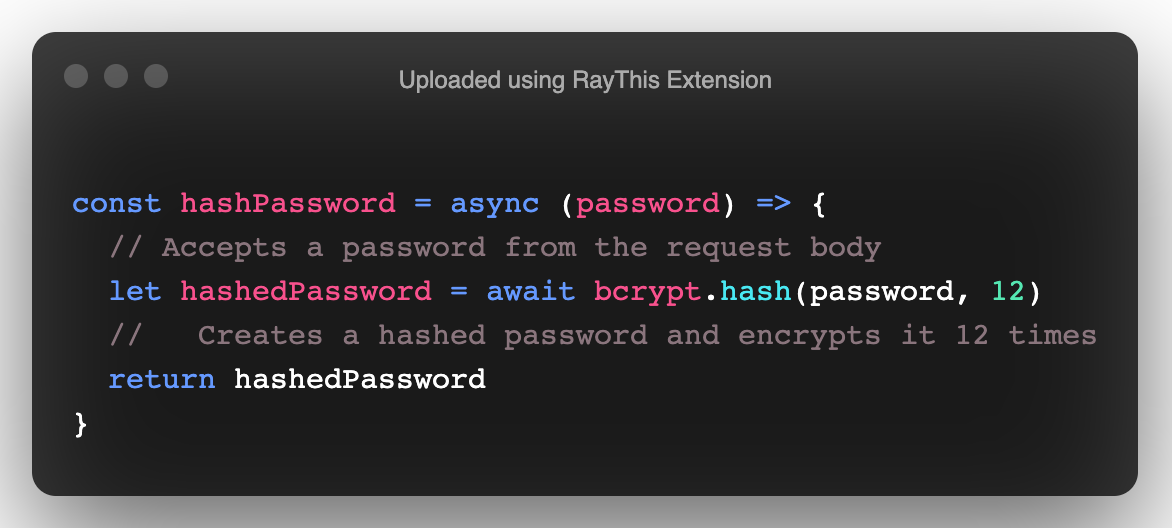
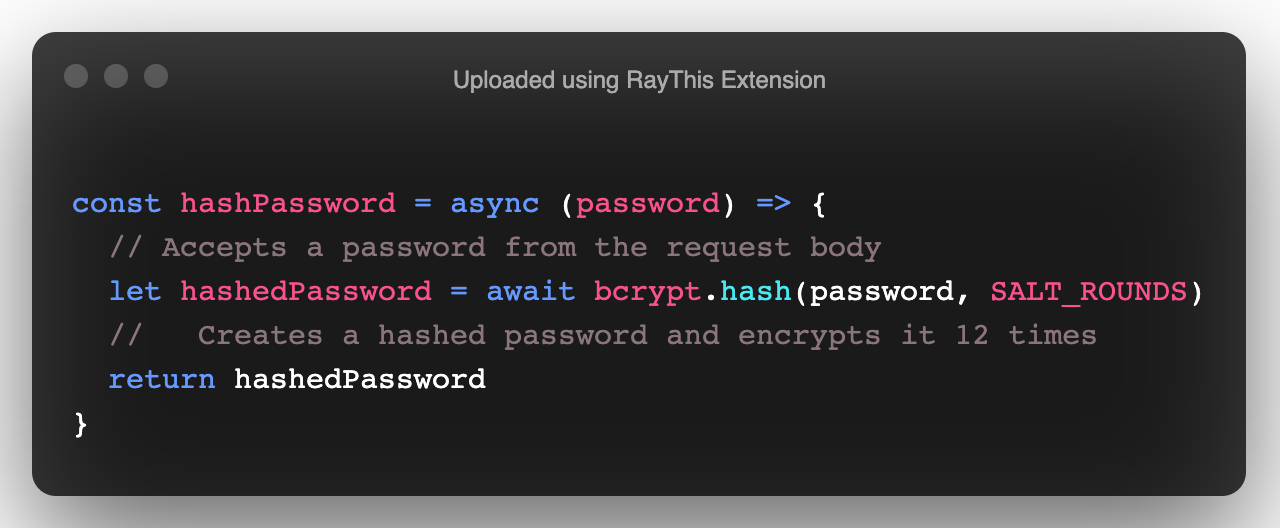
update hash password

diff --git a/README.md b/README.md
@@ -94,7 +94,7 @@ Start by creating a password hashing function:
 
 ```js
 const hashPassword = async (password) => {
-  let hashedPassword = await bcrypt.hash(password, 12)
+  let hashedPassword = await bcrypt.hash(password, SALT_ROUNDS)
   return hashedPassword
 }
 ```
